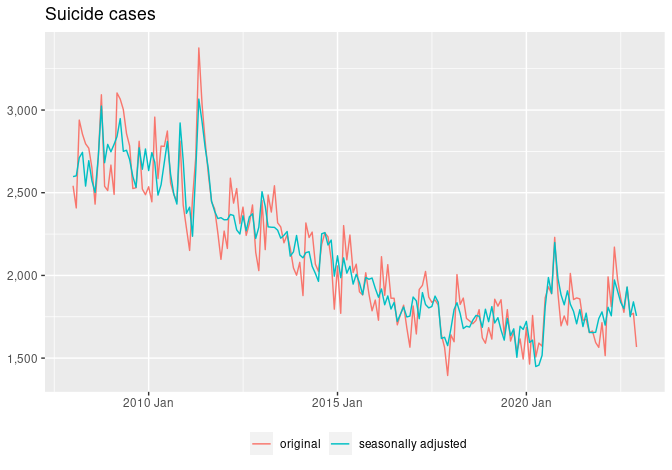
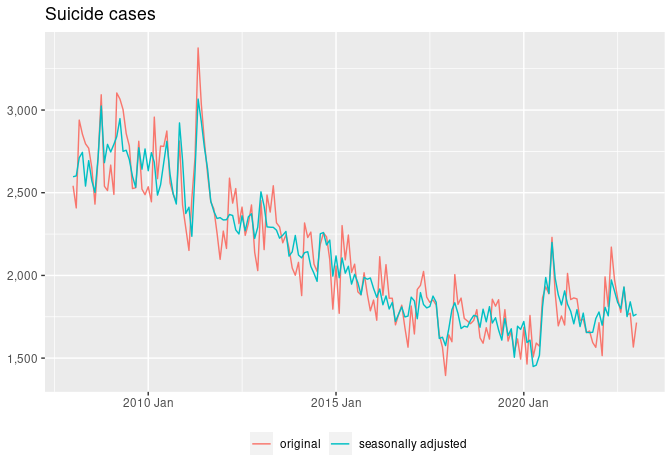
preliminary January 2023 cases

Changed region(s): [[0.125, 0.1191, 0.9688, 0.8043], [0.7188, 0.834, 0.8125, 0.8638], [0.4688, 0.834, 0.5312, 0.8638]]

diff --git a/README.md b/README.md
@@ -14,7 +14,7 @@ Mitsuo Shiota
   id="toc-suicide-cases-are-bouncing-back-but-not-as-fast-as-the-program-suggests">Suicide
   cases are bouncing back, but not as fast as the program suggests</a>
 
-Updated: 2023-02-07
+Updated: 2023-02-15
 
 ## Motivation
 
